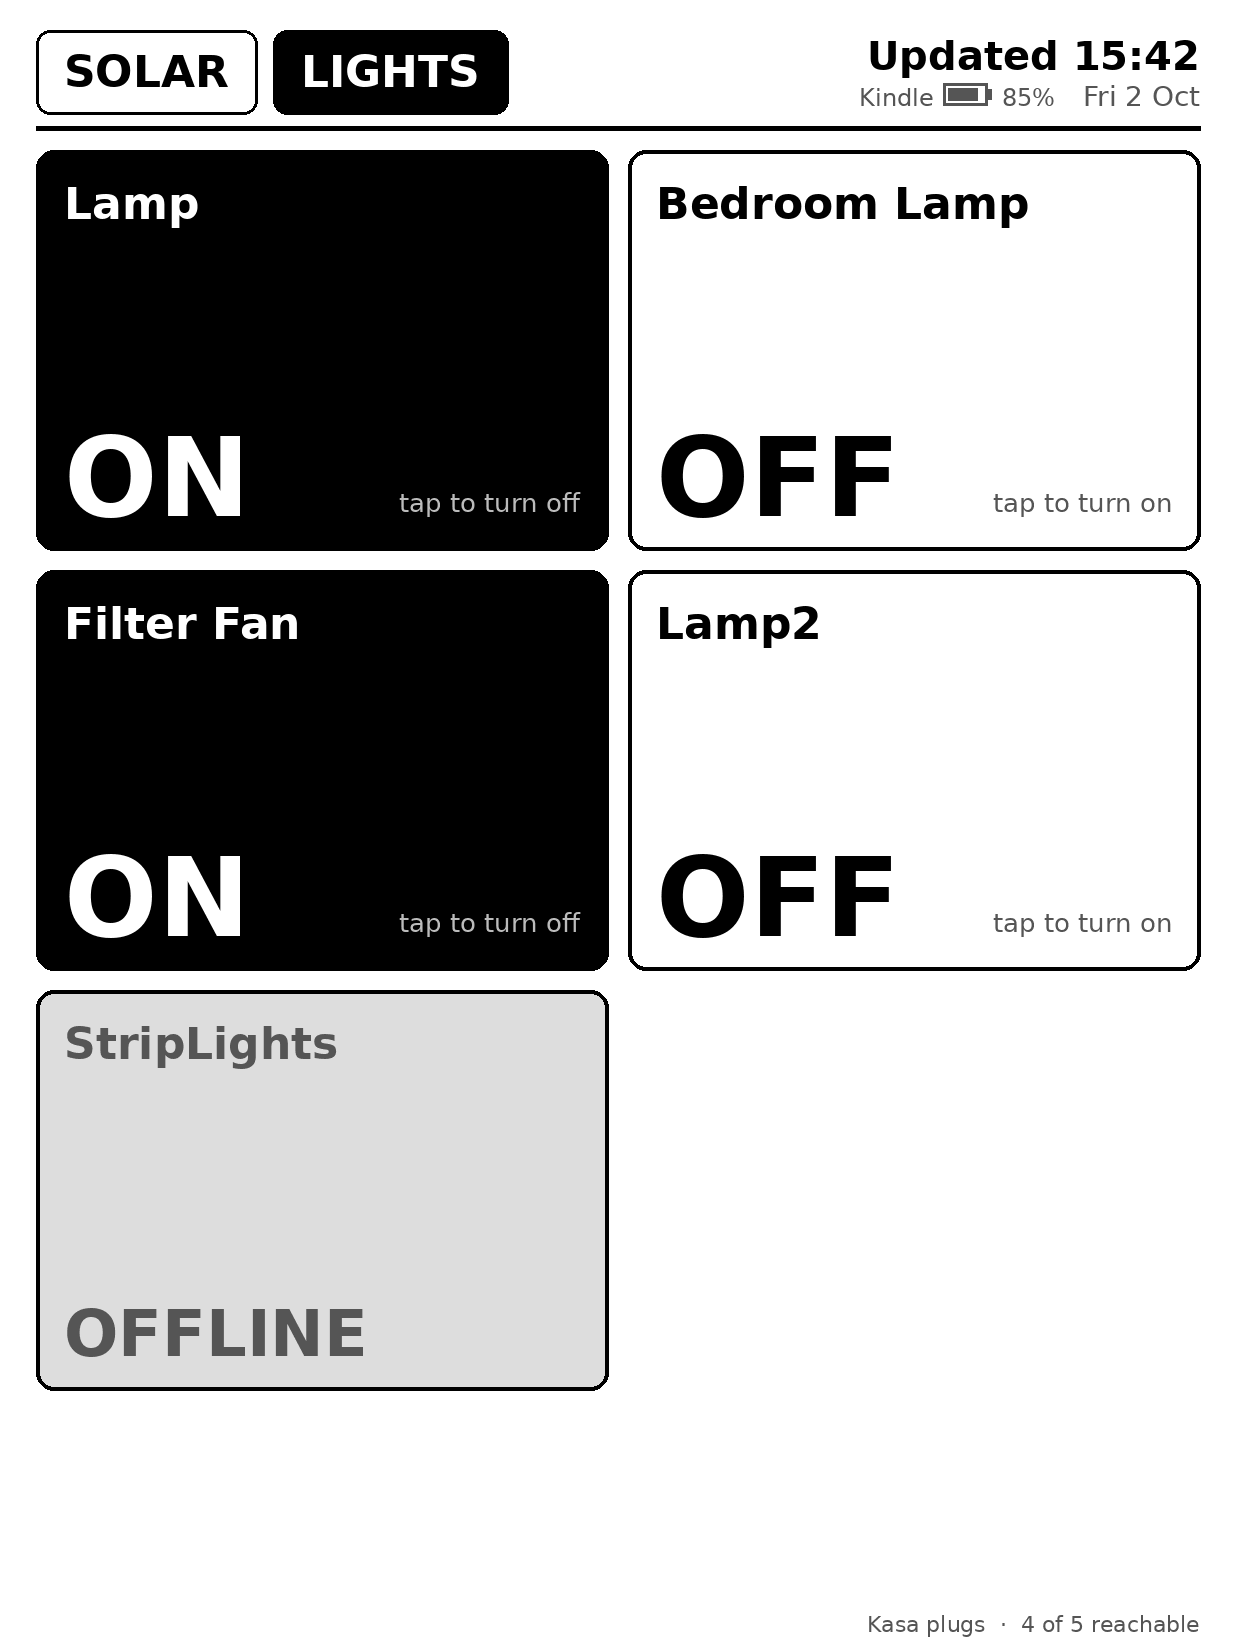
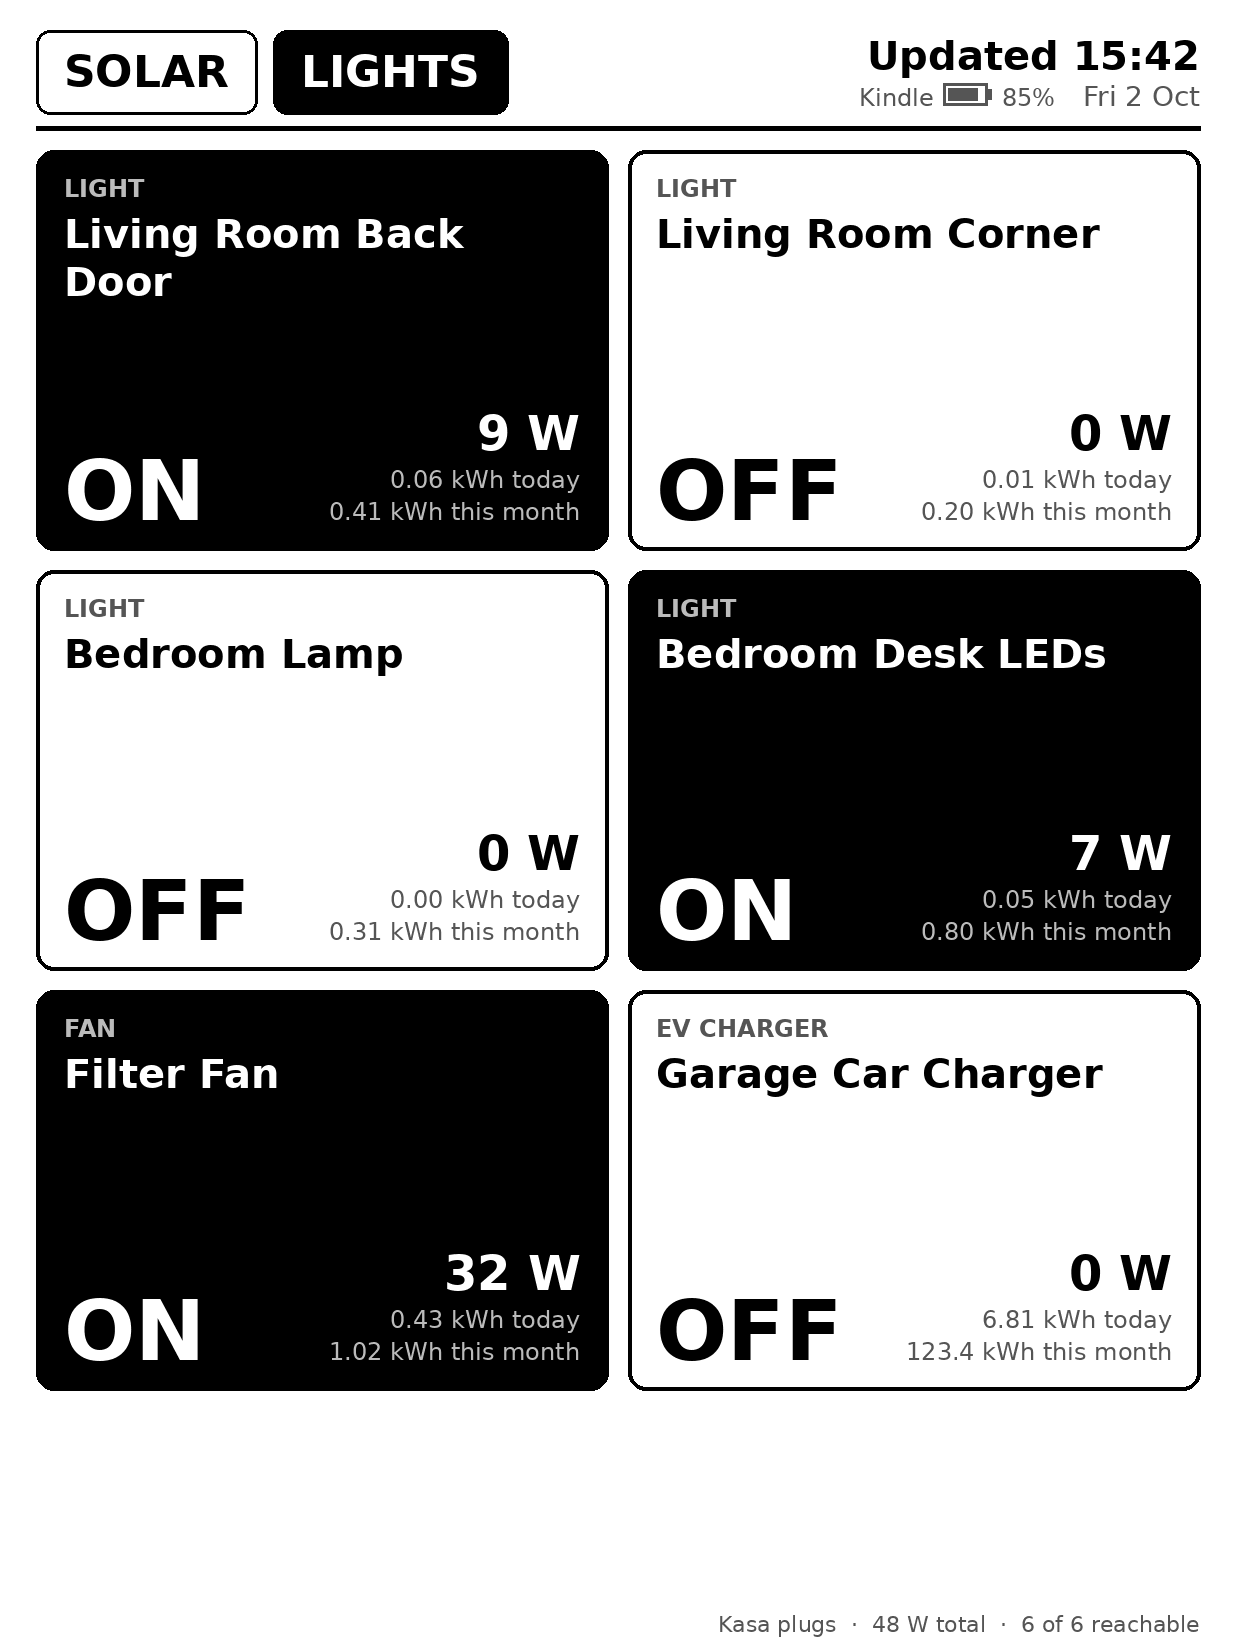
Lights page: energy use, plug kinds and two-line names on each tile
- Tiles show power now (W/kW) and kWh today / this month from the plug's
  energy meter; the footer shows the total.
- KASA_HOSTS takes ip=kind (light, fan, ev charger, ...) for a label on
  each tile.
- Long names wrap onto two lines before being cut with an ellipsis.
- /admin plug buttons show the power too.

diff --git a/kindle_dash/render.py b/kindle_dash/render.py
@@ -595,8 +595,37 @@ def _fit(d: ImageDraw.ImageDraw, s: str, size_: int, width: float) -> str:
     return s.rstrip() + "…"
 
 
+def _wrap(d: ImageDraw.ImageDraw, s: str, size_: int, width: float, max_lines: int = 2) -> list[str]:
+    """`s` broken at spaces into at most `max_lines` lines of bold `size_`; the last is cut with an ellipsis if needed."""
+    f = font(size_, True)
+    lines: list[str] = []
+    words = s.split()
+    while words and len(lines) < max_lines:
+        line = words.pop(0)
+        while words and d.textlength(f"{line} {words[0]}", font=f) <= width:
+            line += " " + words.pop(0)
+        lines.append(line)
+    if words:
+        lines[-1] = _fit(d, f"{lines[-1]} {' '.join(words)}", size_, width)
+    return [_fit(d, line, size_, width) for line in lines] or [""]
+
+
+def fmt_watts(w: float | None) -> str:
+    if w is None:
+        return "--"
+    return f"{w / 1000:.2f} kW" if w >= 1000 else f"{w:.0f} W"
+
+
+def fmt_kwh(v: float) -> str:
+    return f"{v:.2f} kWh" if v < 10 else f"{v:,.1f} kWh"
+
+
 def _plug_tile(d: ImageDraw.ImageDraw, box, plug: Plug) -> None:
-    """ON is solid black, OFF is outlined, unreachable is pale gray."""
+    """ON is solid black, OFF is outlined, unreachable is pale gray.
+
+    Top: what it powers, then the name (two lines). Bottom: ON/OFF, and the
+    plug's power now with its energy today and this month.
+    """
     x0, y0, x1, y1 = box
     on = plug.on is True
     if plug.on is None:
@@ -604,11 +633,22 @@ def _plug_tile(d: ImageDraw.ImageDraw, box, plug: Plug) -> None:
     else:
         bg, fg, sub = (BLACK, WHITE, LIGHT) if on else (WHITE, BLACK, DARK)
     d.rounded_rectangle(box, radius=18, fill=bg, outline=BLACK, width=4)
-    _text(d, (x0 + 28, y0 + 28), _fit(d, plug.name, 44, x1 - x0 - 56), 44, bold=True, fill=fg)
-    state = "OFFLINE" if plug.on is None else ("ON" if on else "OFF")
-    _text(d, (x0 + 28, y1 - 34), state, 64 if plug.on is None else 110, bold=True, fill=fg, anchor="ls")
-    if plug.on is not None:
-        _text(d, (x1 - 28, y1 - 38), f"tap to turn {'off' if on else 'on'}", 26, fill=sub, anchor="rs")
+    y = y0 + 24
+    if plug.kind:
+        _text(d, (x0 + 28, y), plug.kind.upper(), 24, bold=True, fill=sub)
+        y += 36
+    for line in _wrap(d, plug.name, 40, x1 - x0 - 56):
+        _text(d, (x0 + 28, y), line, 40, bold=True, fill=fg)
+        y += 48
+    if plug.on is None:
+        _text(d, (x0 + 28, y1 - 30), "OFFLINE", 60, bold=True, fill=fg, anchor="ls")
+        return
+    _text(d, (x0 + 28, y1 - 30), "ON" if on else "OFF", 84, bold=True, fill=fg, anchor="ls")
+    if plug.power_w is not None:
+        _text(d, (x1 - 28, y1 - 100), fmt_watts(plug.power_w), 48, bold=True, fill=fg, anchor="rs")
+    for i, (v, when) in enumerate(((plug.today_kwh, "today"), (plug.month_kwh, "this month"))):
+        if v is not None:
+            _text(d, (x1 - 28, y1 - 62 + i * 32), f"{fmt_kwh(v)} {when}", 24, fill=sub, anchor="rs")
 
 
 def render_lights(plugs: list[Plug], now: datetime, tz, layout: str = "portrait", kindle: KindleBattery | None = None) -> Image.Image:
@@ -621,7 +661,8 @@ def render_lights(plugs: list[Plug], now: datetime, tz, layout: str = "portrait"
     for box, plug in zip(plug_boxes(layout, len(plugs)), plugs):
         _plug_tile(d, box, plug)
     reachable = sum(p.on is not None for p in plugs)
-    _text(d, (w - M, h - 16), f"Kasa plugs  \u00b7  {reachable} of {len(plugs)} reachable", 22, fill=DARK, anchor="rs")
+    total = sum(p.power_w for p in plugs if p.on is not None and p.power_w is not None)
+    _text(d, (w - M, h - 16), f"Kasa plugs  \u00b7  {fmt_watts(total)} total  \u00b7  {reachable} of {len(plugs)} reachable", 22, fill=DARK, anchor="rs")
     return quantize(img)
 
 

diff --git a/kindle_dash/plugs.py b/kindle_dash/plugs.py
@@ -23,14 +23,27 @@ class Plug:
     host: str
     name: str
     on: bool | None
+    kind: str = ""  # what's plugged in, from KASA_HOSTS ("light", "ev charger", ...)
+    power_w: float | None = None  # energy monitoring, where the plug has it
+    today_kwh: float | None = None
+    month_kwh: float | None = None
+
+
+def _reading(dev, feature: str) -> float | None:
+    f = dev.features.get(feature)
+    try:
+        return None if f is None or f.value is None else float(f.value)
+    except Exception:
+        return None
 
 
 class KasaPlugs:
-    def __init__(self, hosts: tuple[str, ...]):
+    def __init__(self, hosts: tuple[str, ...], kinds: dict[str, str] | None = None):
         self.hosts = hosts
+        self.kinds = kinds or {}
         self._devices: dict[str, object] = {}  # host -> kasa Device, once connected
         self._names: dict[str, str] = {}  # last known alias, kept while unreachable
-        self.plugs: list[Plug] = [Plug(h, h, None) for h in hosts]
+        self.plugs: list[Plug] = [Plug(h, h, None, self.kinds.get(h, "")) for h in hosts]
         self._toggles: dict[str, int] = {}  # per host, bumped by each toggle
 
     async def _device(self, host: str):
@@ -49,11 +62,20 @@ class KasaPlugs:
             dev = await self._device(host)
             await dev.update()
             self._names[host] = (dev.alias or "").strip() or host
-            return Plug(host, self._names[host], bool(dev.is_on))
+            return Plug(
+                host,
+                self._names[host],
+                bool(dev.is_on),
+                self.kinds.get(host, ""),
+                # whole watts: finer would redraw the page for noise
+                None if (w := _reading(dev, "current_consumption")) is None else float(round(w)),
+                _reading(dev, "consumption_today"),
+                _reading(dev, "consumption_this_month"),
+            )
         except Exception as exc:
             log.warning("plug %s: %s", host, exc)
             await self._forget(host)  # reconnect from scratch next time
-            return Plug(host, self._names.get(host, host), None)
+            return Plug(host, self._names.get(host, host), None, self.kinds.get(host, ""))
 
     async def _forget(self, host: str) -> None:
         dev = self._devices.pop(host, None)

diff --git a/tests/test_controls.py b/tests/test_controls.py
@@ -6,7 +6,7 @@ from zoneinfo import ZoneInfo
 
 import pytest
 from fastapi.testclient import TestClient
-from PIL import Image
+from PIL import Image, ImageDraw
 
 from kindle_dash import render, touch
 from kindle_dash.app import create_app
@@ -129,11 +129,33 @@ def test_pages_are_served_and_validated():
 
 
 def test_lights_page_has_eink_grays_and_offline_tiles():
-    plugs = [Plug("a", "Lamp", True), Plug("b", "A very long plug name indeed", False), Plug("c", "Gone", None)]
+    plugs = [
+        Plug("a", "Lamp", True, "light", 7, 0.05, 0.8),
+        Plug("b", "A very long plug name indeed, longer than two lines can hold", False, "ev charger", 0, 6.8, 123.4),
+        Plug("c", "Gone", None, "fan"),
+    ]
     for layout in render.LAYOUTS:
         img = render.render_lights(plugs, datetime(2026, 10, 2, tzinfo=timezone.utc), ZoneInfo("UTC"), layout)
         assert img.size == render.size(layout)
         assert {v for v, n in enumerate(img.histogram()) if n} <= {i * 0x11 for i in range(16)}
+
+
+def test_kasa_hosts_with_kinds(monkeypatch):
+    monkeypatch.setenv("KASA_HOSTS", "10.0.0.1=light, 10.0.0.2 , 10.0.0.3=ev charger")
+    s = Settings.from_env()
+    assert s.kasa_hosts == ("10.0.0.1", "10.0.0.2", "10.0.0.3")
+    assert dict(s.kasa_kinds) == {"10.0.0.1": "light", "10.0.0.3": "ev charger"}
+    plugs = KasaPlugs(s.kasa_hosts, dict(s.kasa_kinds))
+    assert [p.kind for p in plugs.plugs] == ["light", "", "ev charger"]
+
+
+def test_long_names_wrap_to_two_lines():
+    d = ImageDraw.Draw(Image.new("L", (10, 10)))
+    assert render._wrap(d, "Living Room Back Door", 40, 460) == ["Living Room Back", "Door"]
+    lines = render._wrap(d, "Bedroom Desk LEDs With An Extremely Long Name", 40, 460)
+    assert len(lines) == 2 and lines[1].endswith("\u2026")
+    assert render._wrap(d, "Lamp", 40, 460) == ["Lamp"]
+    assert render.fmt_watts(1452) == "1.45 kW" and render.fmt_watts(32) == "32 W" and render.fmt_watts(None) == "--"
 
 
 def test_refresh_keeps_a_toggle_made_while_it_ran():

diff --git a/kindle_dash/config.py b/kindle_dash/config.py
@@ -27,8 +27,10 @@ class Settings:
     control_allow_ips: tuple[str, ...] = ()  # empty = any LAN client with the token
     # /admin, for a browser: HTTP Basic auth as "admin". Refused while empty.
     admin_password: str = ""
-    # Kasa smart plugs, by IP (broadcast discovery doesn't reach them), in display order
+    # Kasa smart plugs, by IP (broadcast discovery doesn't reach them), in display order,
+    # and what each one powers (shown on its tile): KASA_HOSTS=ip=kind,ip=kind,...
     kasa_hosts: tuple[str, ...] = ()
+    kasa_kinds: tuple[tuple[str, str], ...] = ()
     lights_refresh_seconds: int = 15
     # Raw touch coordinates -> panel pixels (portrait 1236 x 1648). The defaults
     # assume the touch panel already reports panel pixels.
@@ -59,7 +61,8 @@ class Settings:
             control_token=env("CONTROL_TOKEN", ""),
             control_allow_ips=_list(env("CONTROL_ALLOW_IPS", "")),
             admin_password=env("ADMIN_PASSWORD", ""),
-            kasa_hosts=_list(env("KASA_HOSTS", "")),
+            kasa_hosts=tuple(h for h, _ in _plugs(env("KASA_HOSTS", ""))),
+            kasa_kinds=tuple((h, k) for h, k in _plugs(env("KASA_HOSTS", "")) if k),
             lights_refresh_seconds=max(5, int(env("LIGHTS_REFRESH_SECONDS", cls.lights_refresh_seconds))),
             touch_swap_xy=_flag(env("TOUCH_SWAP_XY", "")),
             touch_flip_x=_flag(env("TOUCH_FLIP_X", "")),
@@ -71,6 +74,11 @@ class Settings:
 
 def _list(value: str) -> tuple[str, ...]:
     return tuple(v.strip() for v in value.split(",") if v.strip())
+
+
+def _plugs(value: str) -> list[tuple[str, str]]:
+    """"ip=kind,ip" -> [(ip, kind), (ip, "")]."""
+    return [(h.strip(), k.strip()) for h, _, k in (item.partition("=") for item in _list(value))]
 
 
 def _flag(value: str) -> bool:

diff --git a/kindle_dash/app.py b/kindle_dash/app.py
@@ -45,7 +45,7 @@ class State:
             for page, msg in (("solar", "Waiting for data…"), ("lights", "Connecting to plugs…"))
             for lay in render.LAYOUTS
         }
-        self.plugs = KasaPlugs(settings.kasa_hosts)
+        self.plugs = KasaPlugs(settings.kasa_hosts, dict(settings.kasa_kinds))
         self.lights_polled = False
         self.last_render: datetime | None = None
         self.last_success: datetime | None = None
@@ -393,7 +393,7 @@ def admin_html(state: State, done: str) -> str:
     )
     plugs = "".join(
         f'<form method="post" action="/admin/plug?host={e(p.host)}"><button class="plug {"on" if p.on else "off"}"'
-        f'{" disabled" if p.on is None else ""}><b>{e(p.name)}</b> <span>{"offline" if p.on is None else ("ON" if p.on else "OFF")}</span></button></form>'
+        f'{" disabled" if p.on is None else ""}><b>{e(p.name)}</b> <span>{"offline" if p.on is None else ("ON" if p.on else "OFF")}{f" &middot; {render.fmt_watts(p.power_w)}" if p.on is not None and p.power_w is not None else ""}</span></button></form>'
         for p in state.plugs.plugs
     ) or "<p>No plugs configured (KASA_HOSTS).</p>"
     note = {"rotate": "Rotate requested. The Kindle turns at its next check (within a minute).", "plug": "Plug toggled."}.get(done, "")

diff --git a/README.md b/README.md
@@ -35,6 +35,9 @@ Lights tab (`/portrait.png?page=lights`):
 
 The **LIGHTS** tab shows a big tile per Kasa smart plug (`KASA_HOSTS`): solid
 black is ON, outlined is OFF, pale gray is unreachable. Tap a tile to toggle it.
+Each tile shows what the plug powers (from `KASA_HOSTS`), its name on up to two lines,
+and, for plugs with energy monitoring like the EP25, the power now and kWh today and
+this month. The footer shows the total.
 The Pi talks to the plugs directly on the LAN (python-kasa), so nothing changes in
 Apple Home, and a change made either place shows up in the other. The page
 re-reads the plugs every `LIGHTS_REFRESH_SECONDS`. The Kindle picks up changes made elsewhere at its next poll.
@@ -98,7 +101,7 @@ status, a **Rotate Kindle 90°** button and a button per plug.
 | `CONTROL_TOKEN` | – | **required**: shared secret for the Kindle's routes; it sends it as `X-Kindle-Token`. Generate with `openssl rand -hex 16`. |
 | `CONTROL_ALLOW_IPS` | – | optional comma-separated list; the Kindle's routes refuse other addresses (403) |
 | `ADMIN_PASSWORD` | – | **required** for `/admin` and `/status` (user `admin`) |
-| `KASA_HOSTS` | – | comma-separated plug IPs for the lights page, in display order |
+| `KASA_HOSTS` | – | comma-separated plug IPs for the lights page, in display order, each optionally `=kind` for the label on its tile, e.g. `192.168.113.14=light,192.168.113.36=ev charger` |
 | `LIGHTS_REFRESH_SECONDS` | `15` | how often plug states are re-read |
 | `TOUCH_SWAP_XY` / `TOUCH_FLIP_X` / `TOUCH_FLIP_Y` / `TOUCH_MAX_X` / `TOUCH_MAX_Y` | off / off / off / `1235` / `1647` | maps raw touch coordinates to panel pixels; the defaults assume they already match (see [Taps](#taps)) |
 
